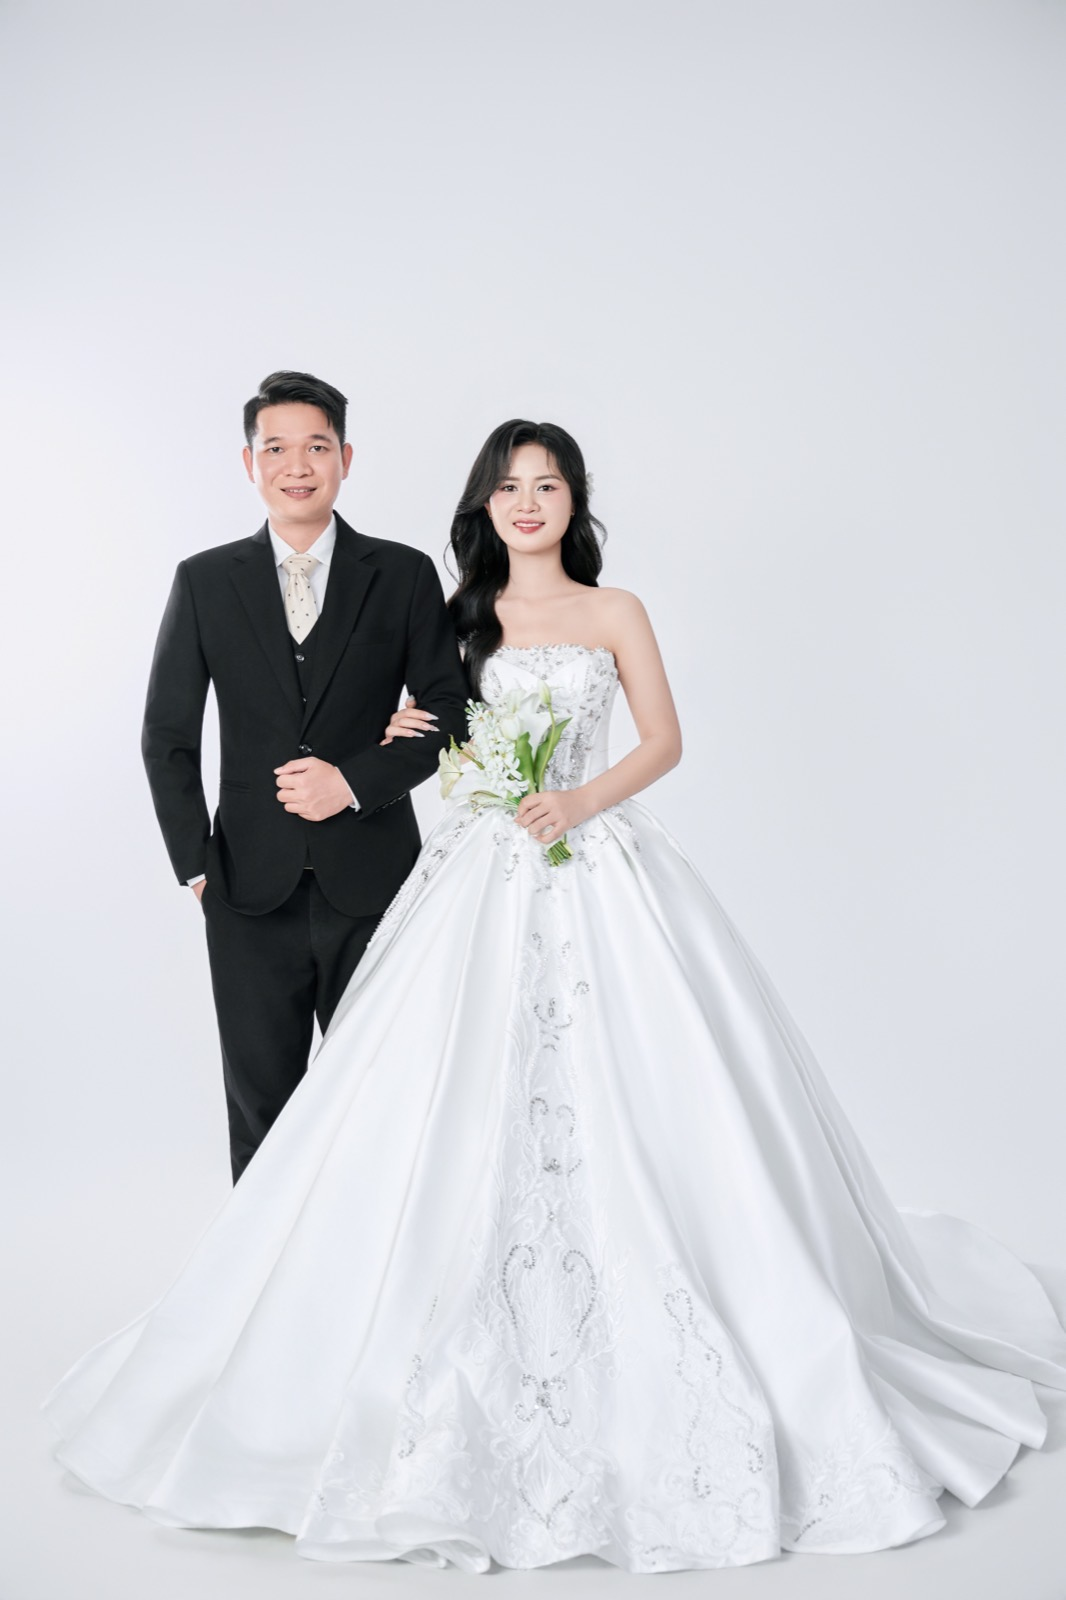
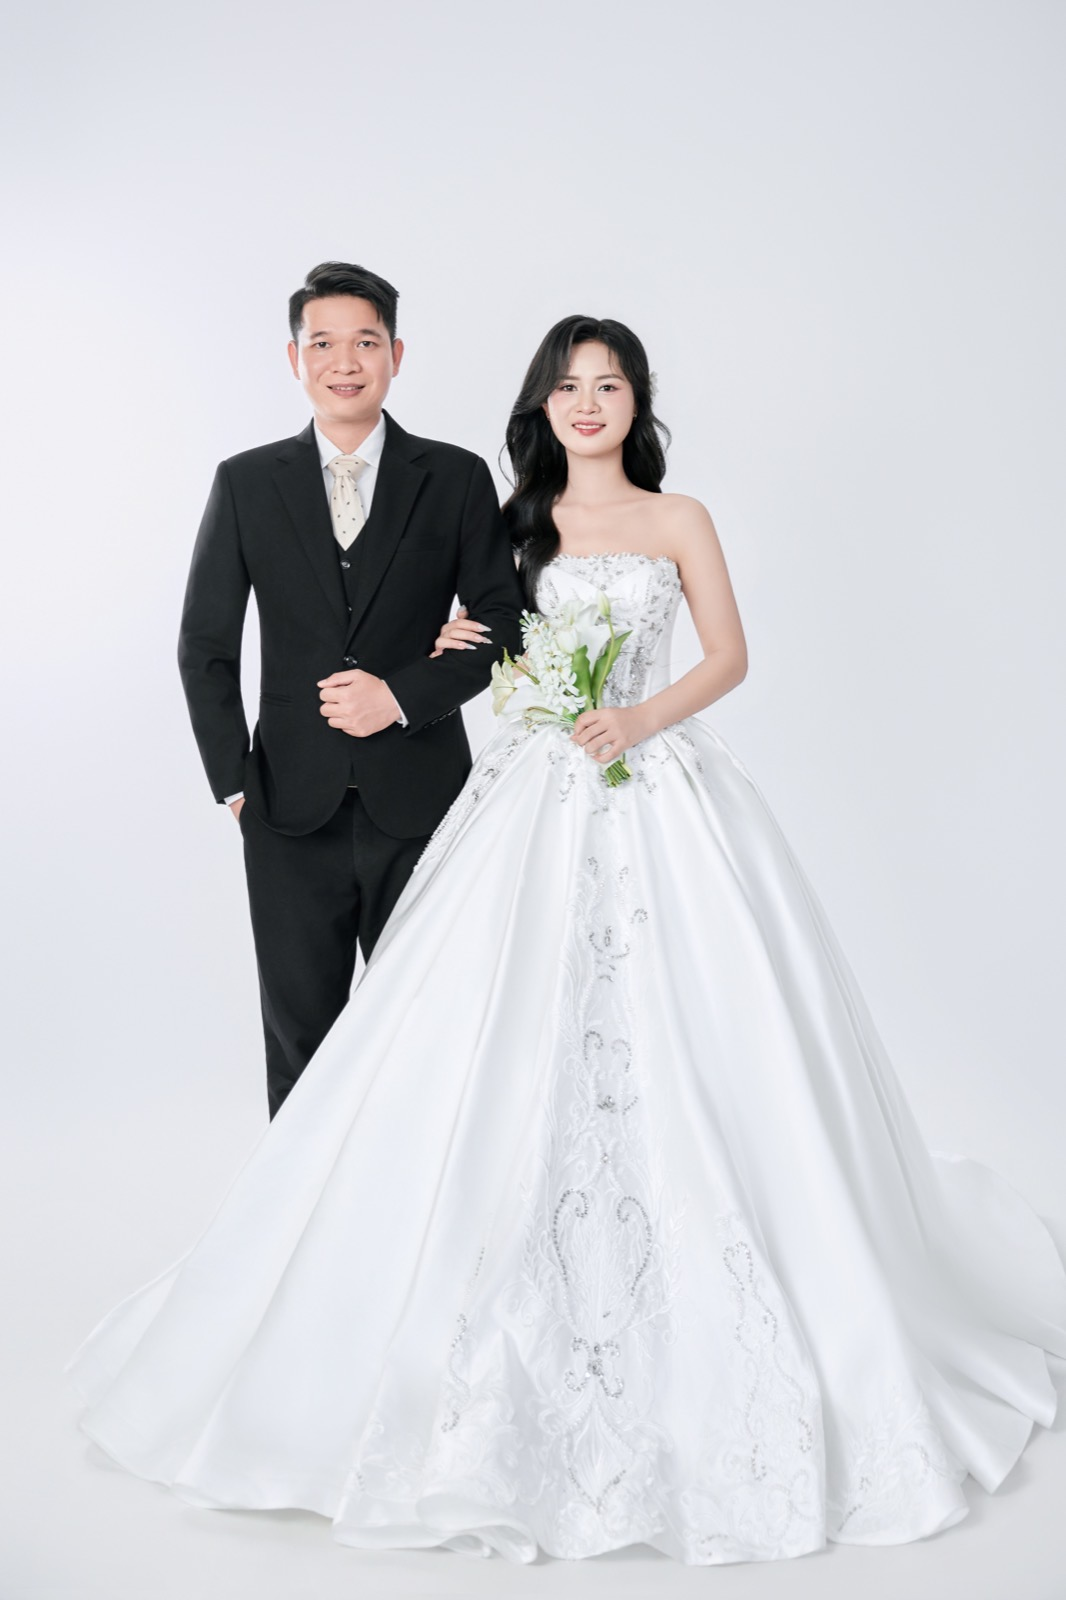
add

diff --git a/data/config.js b/data/config.js
@@ -96,37 +96,15 @@ export const config = {
   // --- Album ảnh (đặt ảnh trong /public/gallery và liệt kê ở đây) ---
   // Ví dụ: "/gallery/1.jpg". Để trống sẽ dùng ảnh placeholder.
   gallery: [
-    "/gallery/MRL01757.jpg",
-    "/gallery/MRL01786.jpg",
-    "/gallery/MRL01864.jpg",
     "/gallery/MRL02000.jpg",
-    "/gallery/MRL02070.jpg",
-    "/gallery/MRL02150.jpg",
     "/gallery/MRL02193.jpg",
     "/gallery/MRL02208.jpg",
-    "/gallery/MRL02226.jpg",
     "/gallery/MRL02257.jpg",
-    "/gallery/MRL02287.jpg",
-    "/gallery/MRL02295.jpg",
-    "/gallery/MRL02329.jpg",
-    "/gallery/MRL02369.jpg",
-    "/gallery/MRL02389.jpg",
-    "/gallery/MRL02397.jpg",
     "/gallery/MRL02400.jpg",
-    "/gallery/MRL02406.jpg",
-    "/gallery/MRL02427.jpg",
-    "/gallery/MRL02445.jpg",
-    "/gallery/MRL02458.jpg",
-    "/gallery/MRL02477.jpg",
-    "/gallery/MRL02482.jpg",
-    "/gallery/MRL02491.jpg",
-    "/gallery/MRL02528.jpg",
-    "/gallery/MRL02585.jpg",
-    "/gallery/MRL02599.jpg",
-    "/gallery/MRL02614.jpg",
-    "/gallery/MRL02632.jpg",
     "/gallery/MRL02638.jpg",
-    "/gallery/MRL02738.jpg",
+    "/gallery/Unknown.jpg",
+    "/gallery/Unknown-2.jpg",
+    "/gallery/Unknown-3.jpg",
   ],
 
   // --- Thông tin mừng cưới / hộp quà cưới ---
